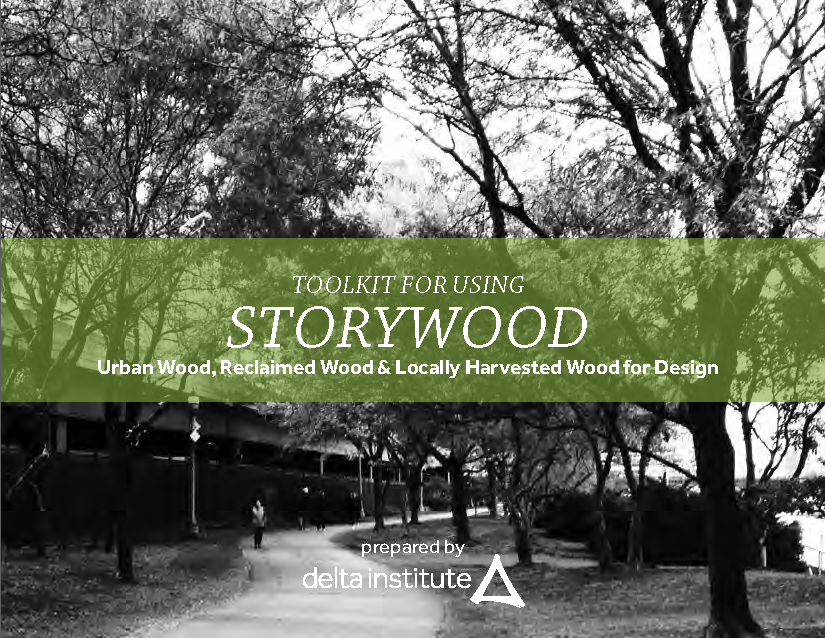
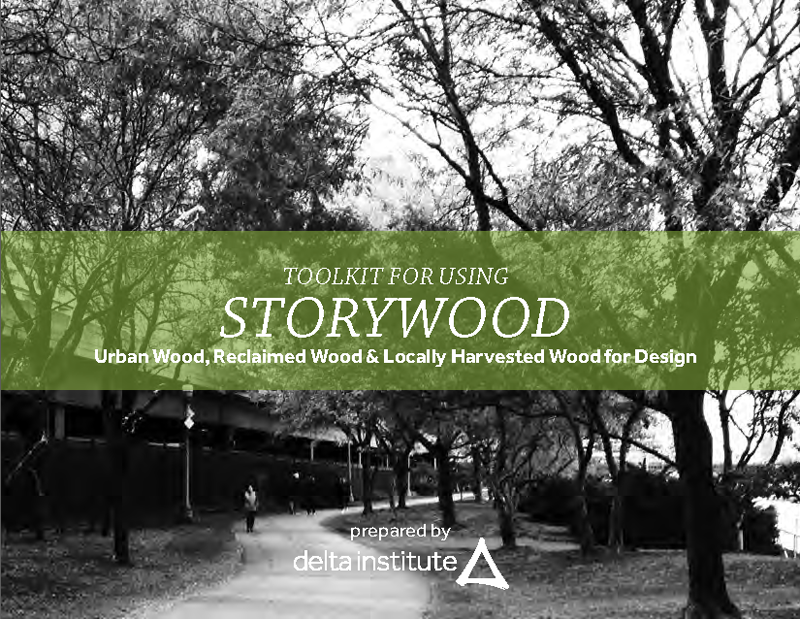
fixes for new content

diff --git a/work/storywood.html b/work/storywood.html
@@ -4,64 +4,70 @@ title: StoryWood Handbook
 subtitle: Delta Institute, 2015
 category: information design
 ---
-    <img src="images/storywood1.png" class="img-responsive" style="padding-bottom:10px">
-    <div class="row">
+    <img src="images/storywood0.png" class="img-responsive">
+    <div class="row">    
+        <div class="col-md-8">
+            <img src="images/storywood1.png" class="img-responsive" style="padding-bottom:10px;padding-top:10px">
+        </div>
+        <div class="col-md-4">
+            <p></p>
+        </div>
     	<div class="col-md-8">
-    		<img src="images/storywood3.png" class="img-responsive" style="border:1px solid #000000">
+    		<img src="images/storywood3.png" class="img-responsive" style="border:1px solid #000000;padding-bottom:10px;padding-top:10px">
     	</div>
     	<div class="col-md-4">
     		<p></p>
     	</div>
     	<div class="col-md-8">
-    		<img src="images/storywood4.png" class="img-responsive" style="border:1px solid #000000">
+    		<img src="images/storywood4.png" class="img-responsive" style="border:1px solid #000000;padding-bottom:10px;padding-top:10px">
     	</div>
     	<div class="col-md-4">
     		<p></p>
     	</div>
     	<div class="col-md-8">
-    		<img src="images/storywood5.png" class="img-responsive" style="border:1px solid #000000">
+    		<img src="images/storywood5.png" class="img-responsive" style="border:1px solid #000000;padding-bottom:10px;padding-top:10px">
     	</div>
     	<div class="col-md-4">
     		<p></p>
     	</div>
     	<div class="col-md-8">
-    		<img src="images/storywood6.png" class="img-responsive" style="border:1px solid #000000">
+    		<img src="images/storywood6.png" class="img-responsive" style="border:1px solid #000000;padding-bottom:10px;padding-top:10px">
     	</div>
     	<div class="col-md-4">
     		<p></p>
     	</div>
         <div class="col-md-8">
-            <img src="images/storywood7.png" class="img-responsive" style="border:1px solid #000000">
+            <img src="images/storywood7.png" class="img-responsive" style="border:1px solid #000000;padding-bottom:10px;padding-top:10px">
         </div>
         <div class="col-md-4">
             <p></p>
         </div>
         <div class="col-md-8">
-            <img src="images/storywood8.png" class="img-responsive" style="border:1px solid #000000">
+            <img src="images/storywood8.png" class="img-responsive" style="border:1px solid #000000;padding-bottom:10px;padding-top:10px">
         </div>
         <div class="col-md-4">
             <p></p>
         </div>
         <div class="col-md-8">
-            <img src="images/storywood9.png" class="img-responsive" style="border:1px solid #000000">
+            <img src="images/storywood9.png" class="img-responsive" style="border:1px solid #000000;padding-bottom:10px;padding-top:10px">
         </div>
         <div class="col-md-4">
             <p></p>
         </div>
         <div class="col-md-8">
-            <img src="images/storywood10.png" class="img-responsive" style="border:1px solid #000000">
+            <img src="images/storywood10.png" class="img-responsive" style="border:1px solid #000000;padding-bottom:10px;padding-top:10px">
         </div>
         <div class="col-md-4">
             <p></p>
         </div>
         <div class="col-md-8">
-            <img src="images/storywood11.png" class="img-responsive" style="border:1px solid #000000">
+            <img src="images/storywood11.png" class="img-responsive" style="border:1px solid #000000;padding-bottom:10px;padding-top:10px">
         </div>
         <div class="col-md-4">
             <p></p>
         </div>
         <div class="col-md-8">
-            <img src="images/storywood12.png" class="img-responsive" style="border:1px solid #000000">
+            <img src="images/storywood12.png" class="img-responsive" style="border:1px solid #000000;padding-bottom:10px;padding-top:10px">
         </div>
         <div class="col-md-4">
             <p></p>

diff --git a/work/annualreport.html b/work/annualreport.html
@@ -7,37 +7,37 @@ category: information design
     <img src="images/report1.jpg" class="img-responsive" style="padding-bottom:10px">
     <div class="row">
     	<div class="col-md-8">
-    		<img src="images/report2.jpg" class="img-responsive">
+    		<img src="images/report2.jpg" class="img-responsive" style="padding-top:10px;padding-bottom:10px">
     	</div>
     	<div class="col-md-4">
     		<p></p>
     	</div>
     	<div class="col-md-8">
-    		<img src="images/report3.jpg" class="img-responsive">
+    		<img src="images/report3.jpg" class="img-responsive" style="padding-top:10px;padding-bottom:10px">
     	</div>
     	<div class="col-md-4">
     		<p></p>
     	</div>
     	<div class="col-md-8">
-    		<img src="images/report4.jpg" class="img-responsive">
+    		<img src="images/report4.jpg" class="img-responsive" style="padding-top:10px;padding-bottom:10px">
     	</div>
     	<div class="col-md-4">
     		<p></p>
     	</div>
     	<div class="col-md-8">
-    		<img src="images/report5.jpg" class="img-responsive">
+    		<img src="images/report5.jpg" class="img-responsive" style="padding-top:10px;padding-bottom:10px">
     	</div>
     	<div class="col-md-4">
     		<p></p>
     	</div>
         <div class="col-md-8">
-            <img src="images/report6.jpg" class="img-responsive">
+            <img src="images/report6.jpg" class="img-responsive" style="padding-top:10px;padding-bottom:10px">
         </div>
         <div class="col-md-4">
             <p></p>
         </div>
         <div class="col-md-8">
-            <img src="images/report7.jpg" class="img-responsive">
+            <img src="images/report7.jpg" class="img-responsive" style="padding-top:10px;padding-bottom:10px">
         </div>
         <div class="col-md-4">
             <p></p>

diff --git a/work/impact.html b/work/impact.html
@@ -4,9 +4,10 @@ title: Impact Map
 subtitle: Delta Institute, 2013
 category: information design
 ---
-    <img src="images/impact.svg" class="img-responsive" alt="Responsive image" style="padding-bottom:20px">
+    <img src="images/impact1.png" class="img-responsive" alt="Responsive image" style="padding-bottom:20px">
     <div class="row">
-      <div class="col-md-12" style="padding-top:10px"><p><strong>Project Overview:</strong> This graphic illustrates the holistic environmental impact of sustainable office practices related to energy efficiency, water conservation, waste management, and alternative transportation.</p>
+      <div class="col-md-8"> <img src="images/impact.svg" style="padding-top:10px;padding-bottom:10px;padding-top:10px"></div>
+      <div class="col-md-4" style="padding-top:10px;padding-bottom:10px"><p><strong>Project Overview:</strong> This graphic illustrates the holistic environmental impact of sustainable office practices related to energy efficiency, water conservation, waste management, and alternative transportation.</p>
       </div>
     </div>
 <hr>
